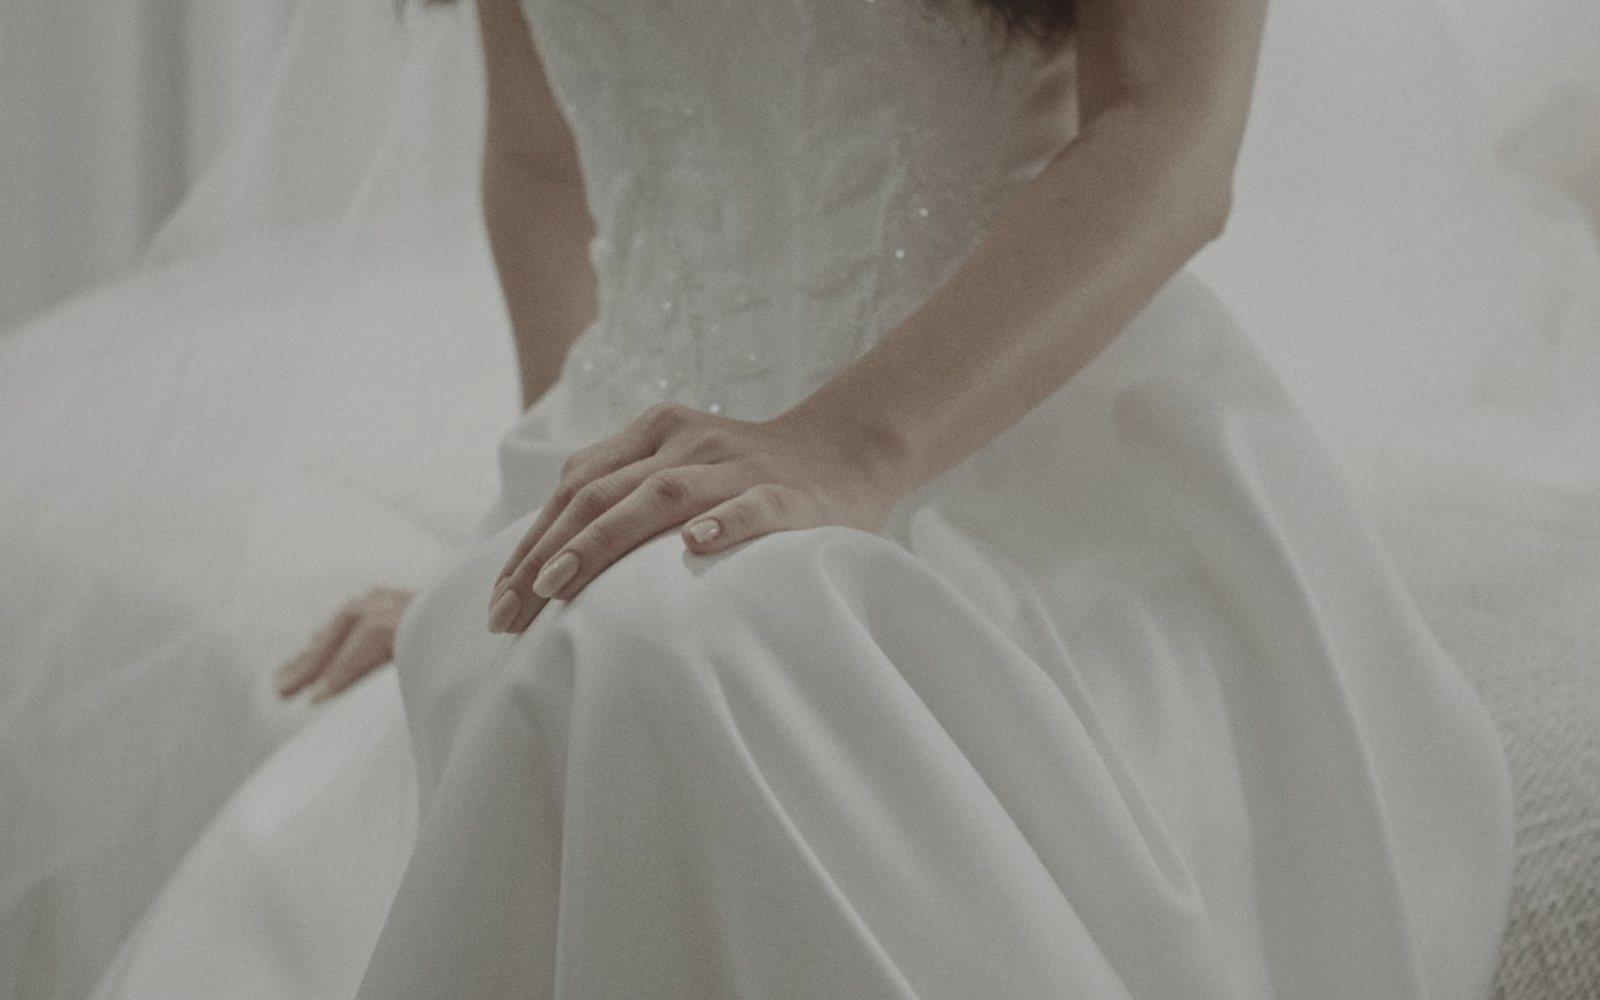
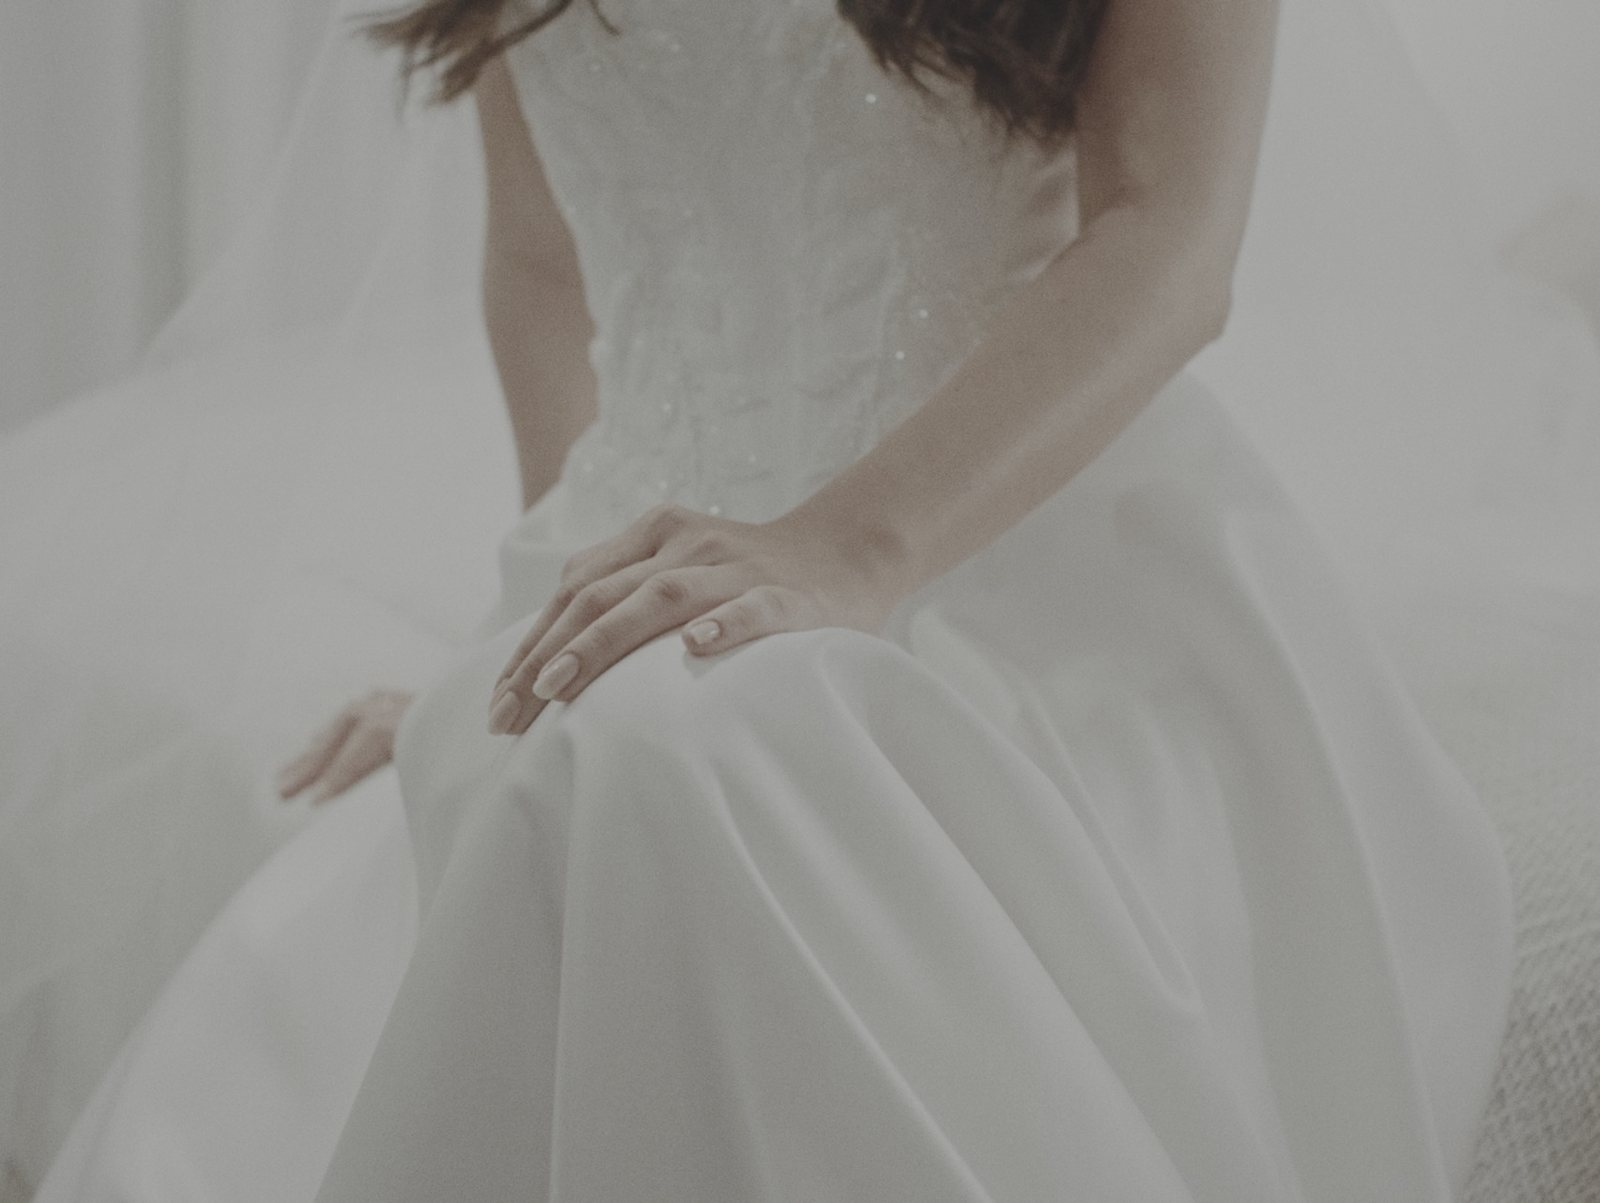
Revela: antes e depois com o frame em log e a cor final, na proporção original
- capa: o frame do vinho levado a uma curva log (Log) e como foi entregue (Final), em 16:9, sem corte
- exemplo: cavalo como referência e vestido em log como material, sem corte
- sai a miniatura de referência da capa

Claude-Session: https://claude.ai/code/session_018CsddJX1e5cNJALMVXCxWp

diff --git a/products/finishing/index.html b/products/finishing/index.html
@@ -55,13 +55,12 @@
           <a class="vidro vidro--tinta grande-pilula" href="lut.html">Começar agora</a>
           <a class="vidro grande-pilula" href="entrar.html">Entrar</a>
         </div>
-        <figure class="comparar surge" style="--d: 4" aria-label="O mesmo frame antes e depois da LUT criada a partir de uma referência">
-          <img class="antes" src="marca/home/hero-antes.jpg" alt="" width="1600" height="1000" fetchpriority="high" />
-          <img class="depois" src="marca/home/hero-depois.jpg" alt="" width="1600" height="1000" />
+        <figure class="comparar surge" style="--d: 4" aria-label="O mesmo frame em log e com a cor final">
+          <img class="antes" src="marca/home/hero-antes.jpg" alt="" width="1600" height="900" fetchpriority="high" />
+          <img class="depois" src="marca/home/hero-depois.jpg" alt="" width="1600" height="900" />
           <span class="linha" aria-hidden="true"></span>
-          <span class="rotulo-home rotulo-home--antes">Antes</span>
-          <span class="rotulo-home rotulo-home--depois">Depois</span>
-          <figcaption class="ref-mini"><img src="marca/home/hero-referencia.jpg" alt="" width="160" height="100" /><span>Referência</span></figcaption>
+          <span class="rotulo-home rotulo-home--antes">Log</span>
+          <span class="rotulo-home rotulo-home--depois">Final</span>
         </figure>
       </section>
 

diff --git a/products/finishing/app/home.css b/products/finishing/app/home.css
@@ -207,11 +207,11 @@
   height: auto;
 }
 
-/* hero: o mesmo frame antes e depois da LUT; a linha da comparação varre a imagem, como na ferramenta */
+/* hero: o mesmo frame em log e com a cor final, na proporção original (16:9); a linha da comparação varre a imagem, como na ferramenta */
 .comparar {
   position: relative;
   width: min(1180px, 100%);
-  aspect-ratio: 16 / 10;
+  aspect-ratio: 16 / 9;
   margin: clamp(48px, 7vw, 80px) auto 0;
   border-radius: clamp(16px, 2.4vw, 28px);
   overflow: hidden;
@@ -256,31 +256,6 @@
 }
 .rotulo-home--depois {
   right: 16px;
-}
-.ref-mini {
-  position: absolute;
-  right: 16px;
-  bottom: 16px;
-  display: grid;
-  gap: 6px;
-  justify-items: end;
-  margin: 0;
-  color: #f5f5f7;
-  font-size: 12px;
-  font-weight: 600;
-}
-.ref-mini img {
-  width: clamp(96px, 14vw, 180px);
-  height: auto;
-  border-radius: 10px;
-  box-shadow:
-    0 0 0 2px rgb(255 255 255 / 0.85),
-    0 16px 40px rgb(0 0 0 / 0.6);
-}
-.ref-mini span {
-  padding: 2px 10px;
-  border-radius: 999px;
-  background: rgb(14 14 16 / 0.55);
 }
 
 /* ─────────── seções ─────────── */

diff --git a/products/finishing/README.md b/products/finishing/README.md
@@ -28,7 +28,7 @@ de uma cor, cores, regras de uso e as alternativas estudadas (`marca/alternativa
 
 `index.html` (`app/home.*`): apresentação com motion (comparação antes/depois que se revela, telas reais em MacBook
 e iPhone que entram com a rolagem, faixa de destinos, família Absolute ZRO). Tudo em CSS, com "reduzir movimento".
-Imagens de exemplo: frames da ZRO Filmes (os do site) em `exemplos/`; o "depois" da página inicial é saída real da Revela (créditos em `exemplos/CREDITOS.txt`).
+Imagens de exemplo: frames da ZRO Filmes (os do site) em `exemplos/`; o "antes" é o mesmo frame em log simulado (créditos em `exemplos/CREDITOS.txt`).
 
 Login único Absolute ZRO (ADR 0012/0014), no padrão do Synquei: `api/zro/{entrar,callback,eu,sair}.js` (funções Node
 da Vercel; `api/_zro.js` não vira rota). Cliente OIDC confidencial `revela-web`, PKCE S256, cookies `rv_zro`/`rv_conta`
